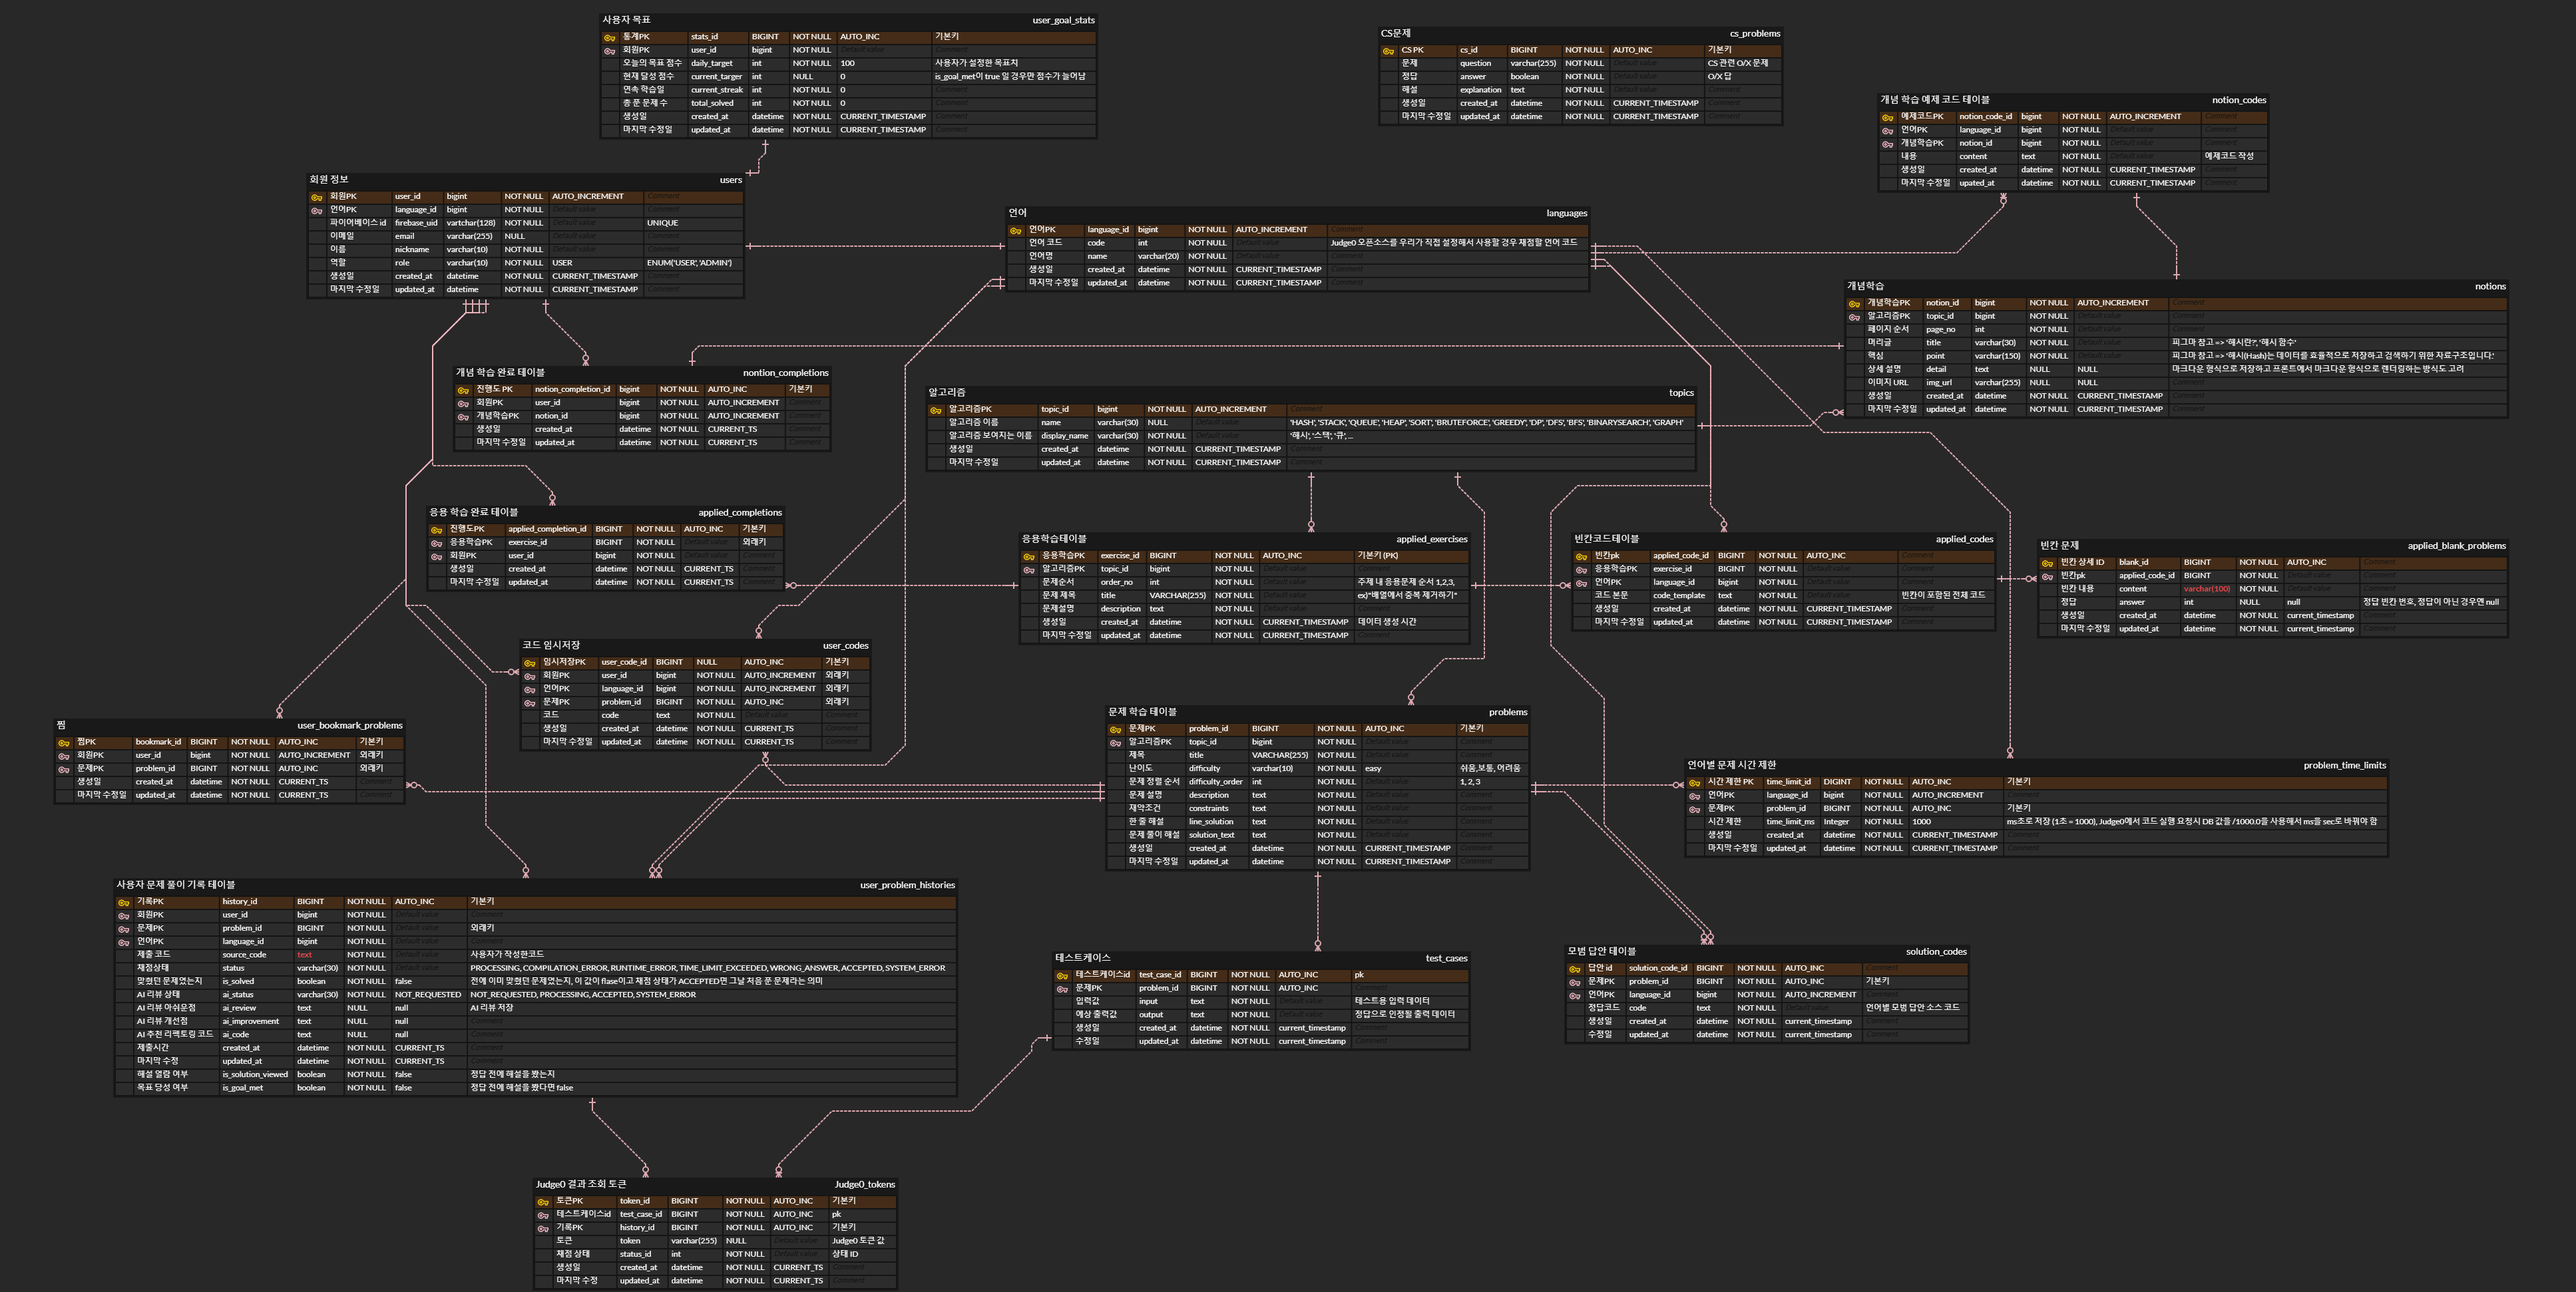
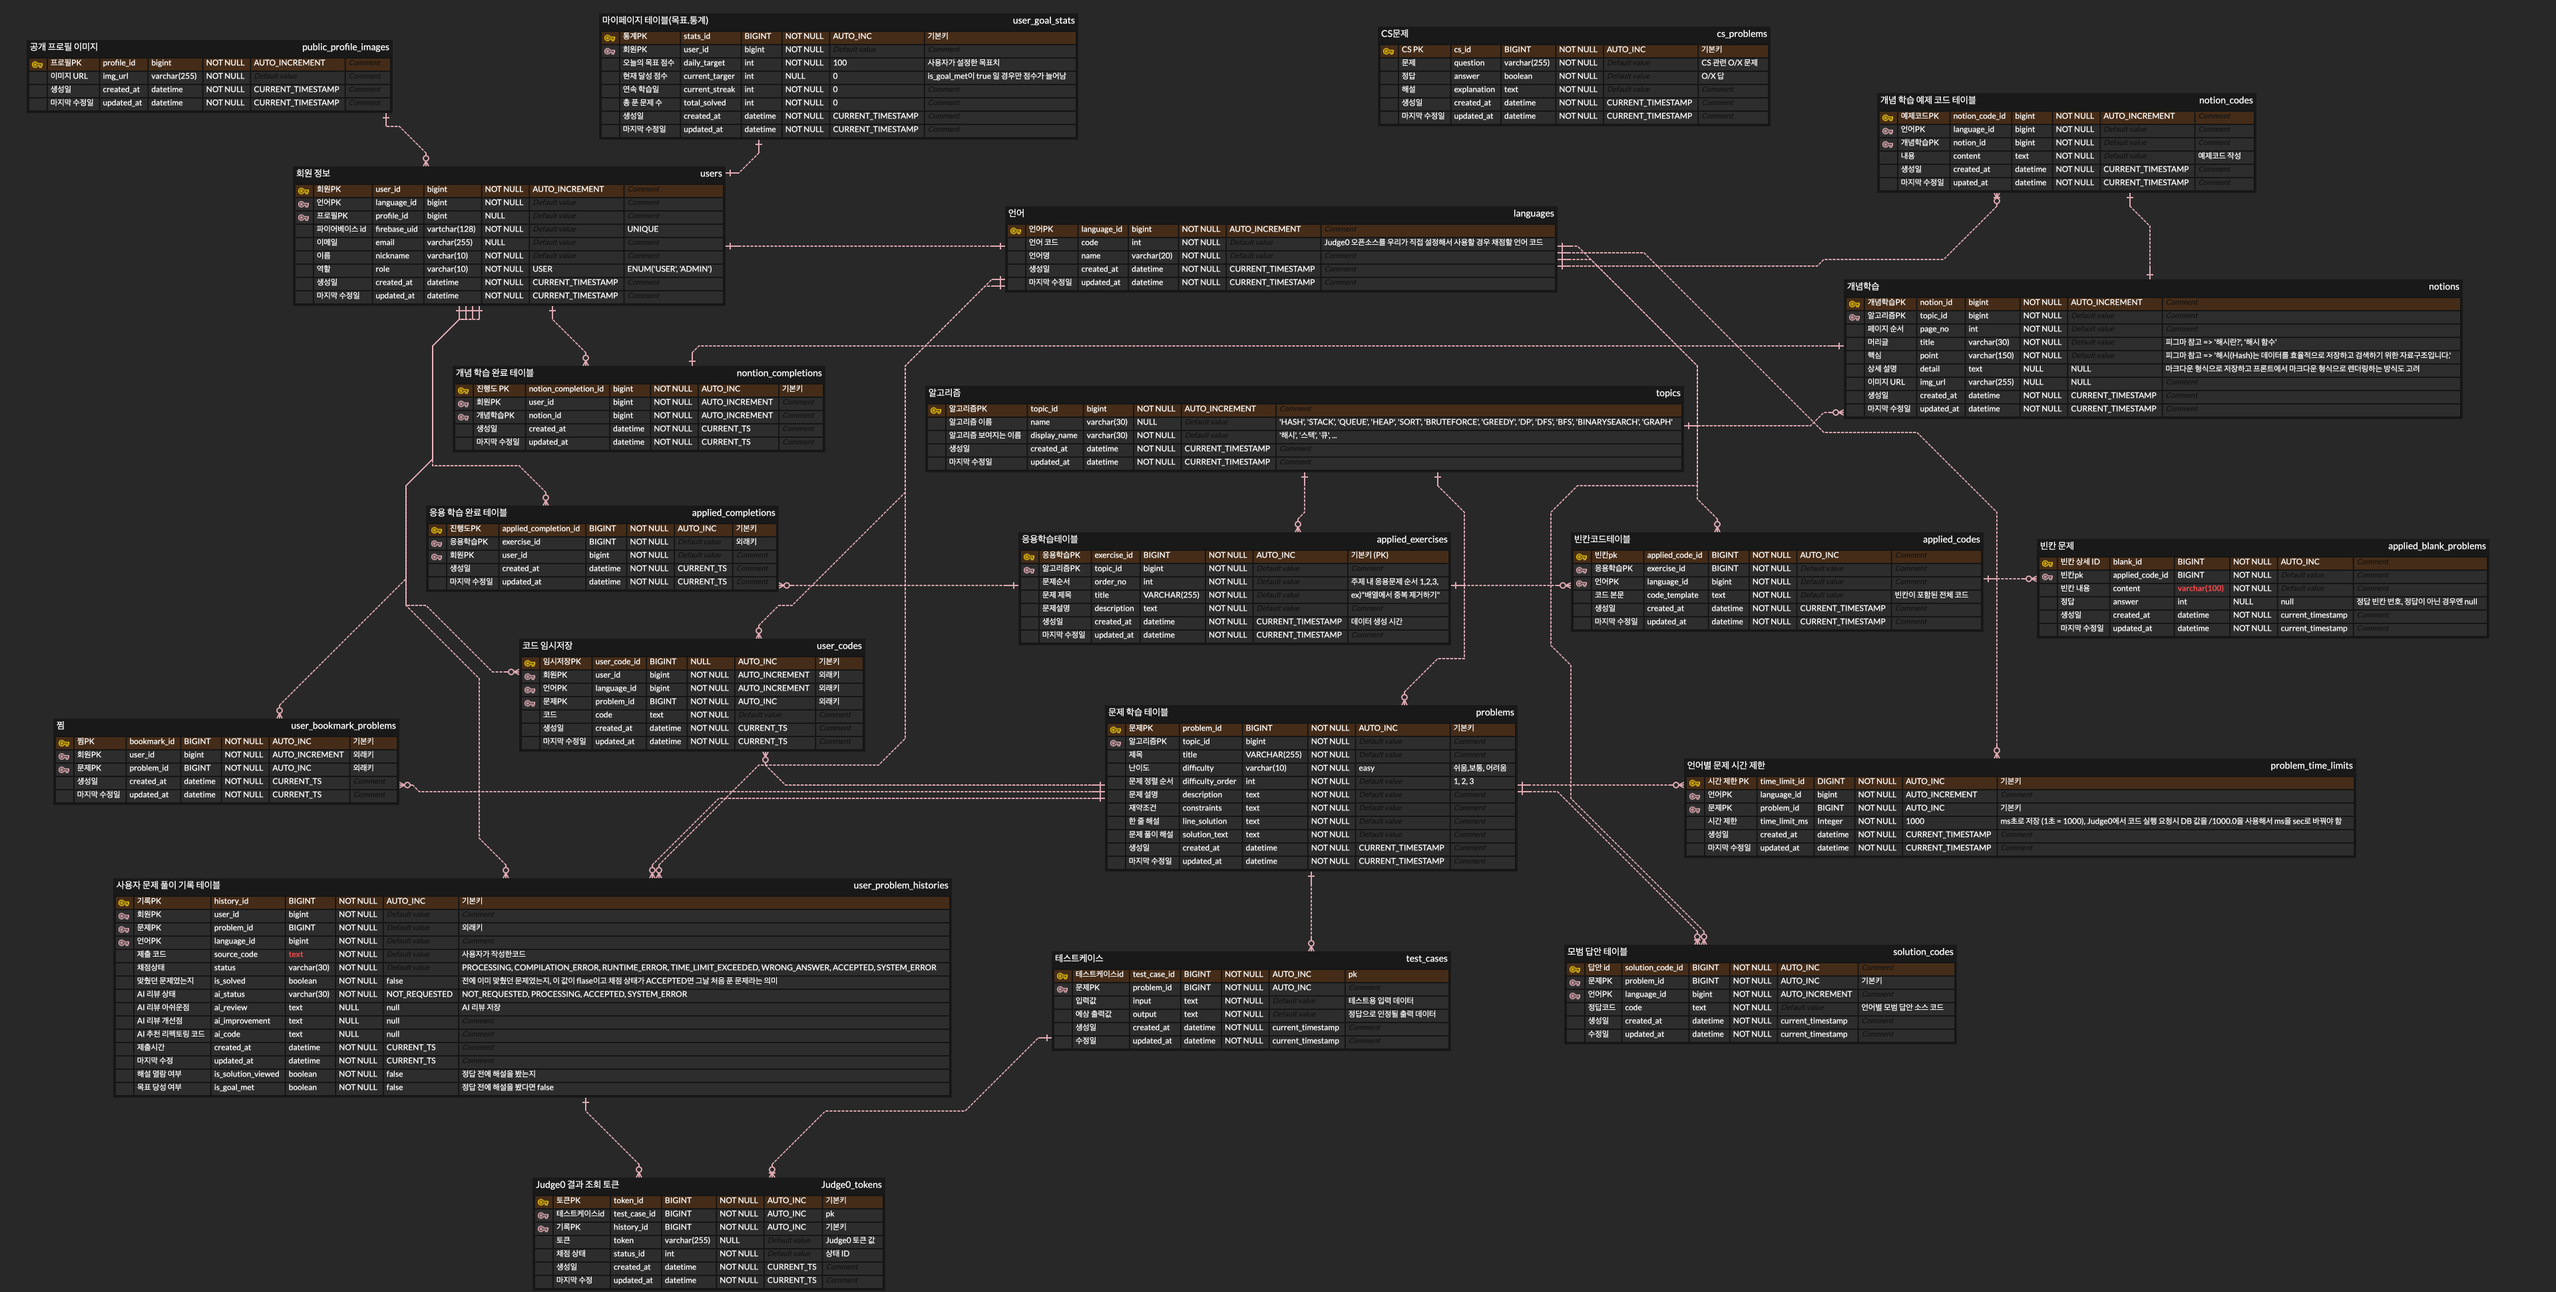
Modify README

diff --git a/README.md b/README.md
@@ -21,7 +21,7 @@ Spring Boot, MySQL, Amazon RDS, Amazon S3, Firebase Auth, Judge0 API, Gemini API
 ### 사용자 인증 및 관리
 - Firebase Auth 기반 회원가입 및 로그인 
 - 사용자 프로필 및 마이페이지 조회 
-- 사용자 이름 및 언어 설정 관리 
+- 사용자 이름, 프로필 이미지 및 언어 설정 관리 
 - 사용자별 학습 및 문제 풀이 기록 저장
 ### 알고리즘 학습 기능
 - 알고리즘 개념 학습 콘텐츠 제공 
